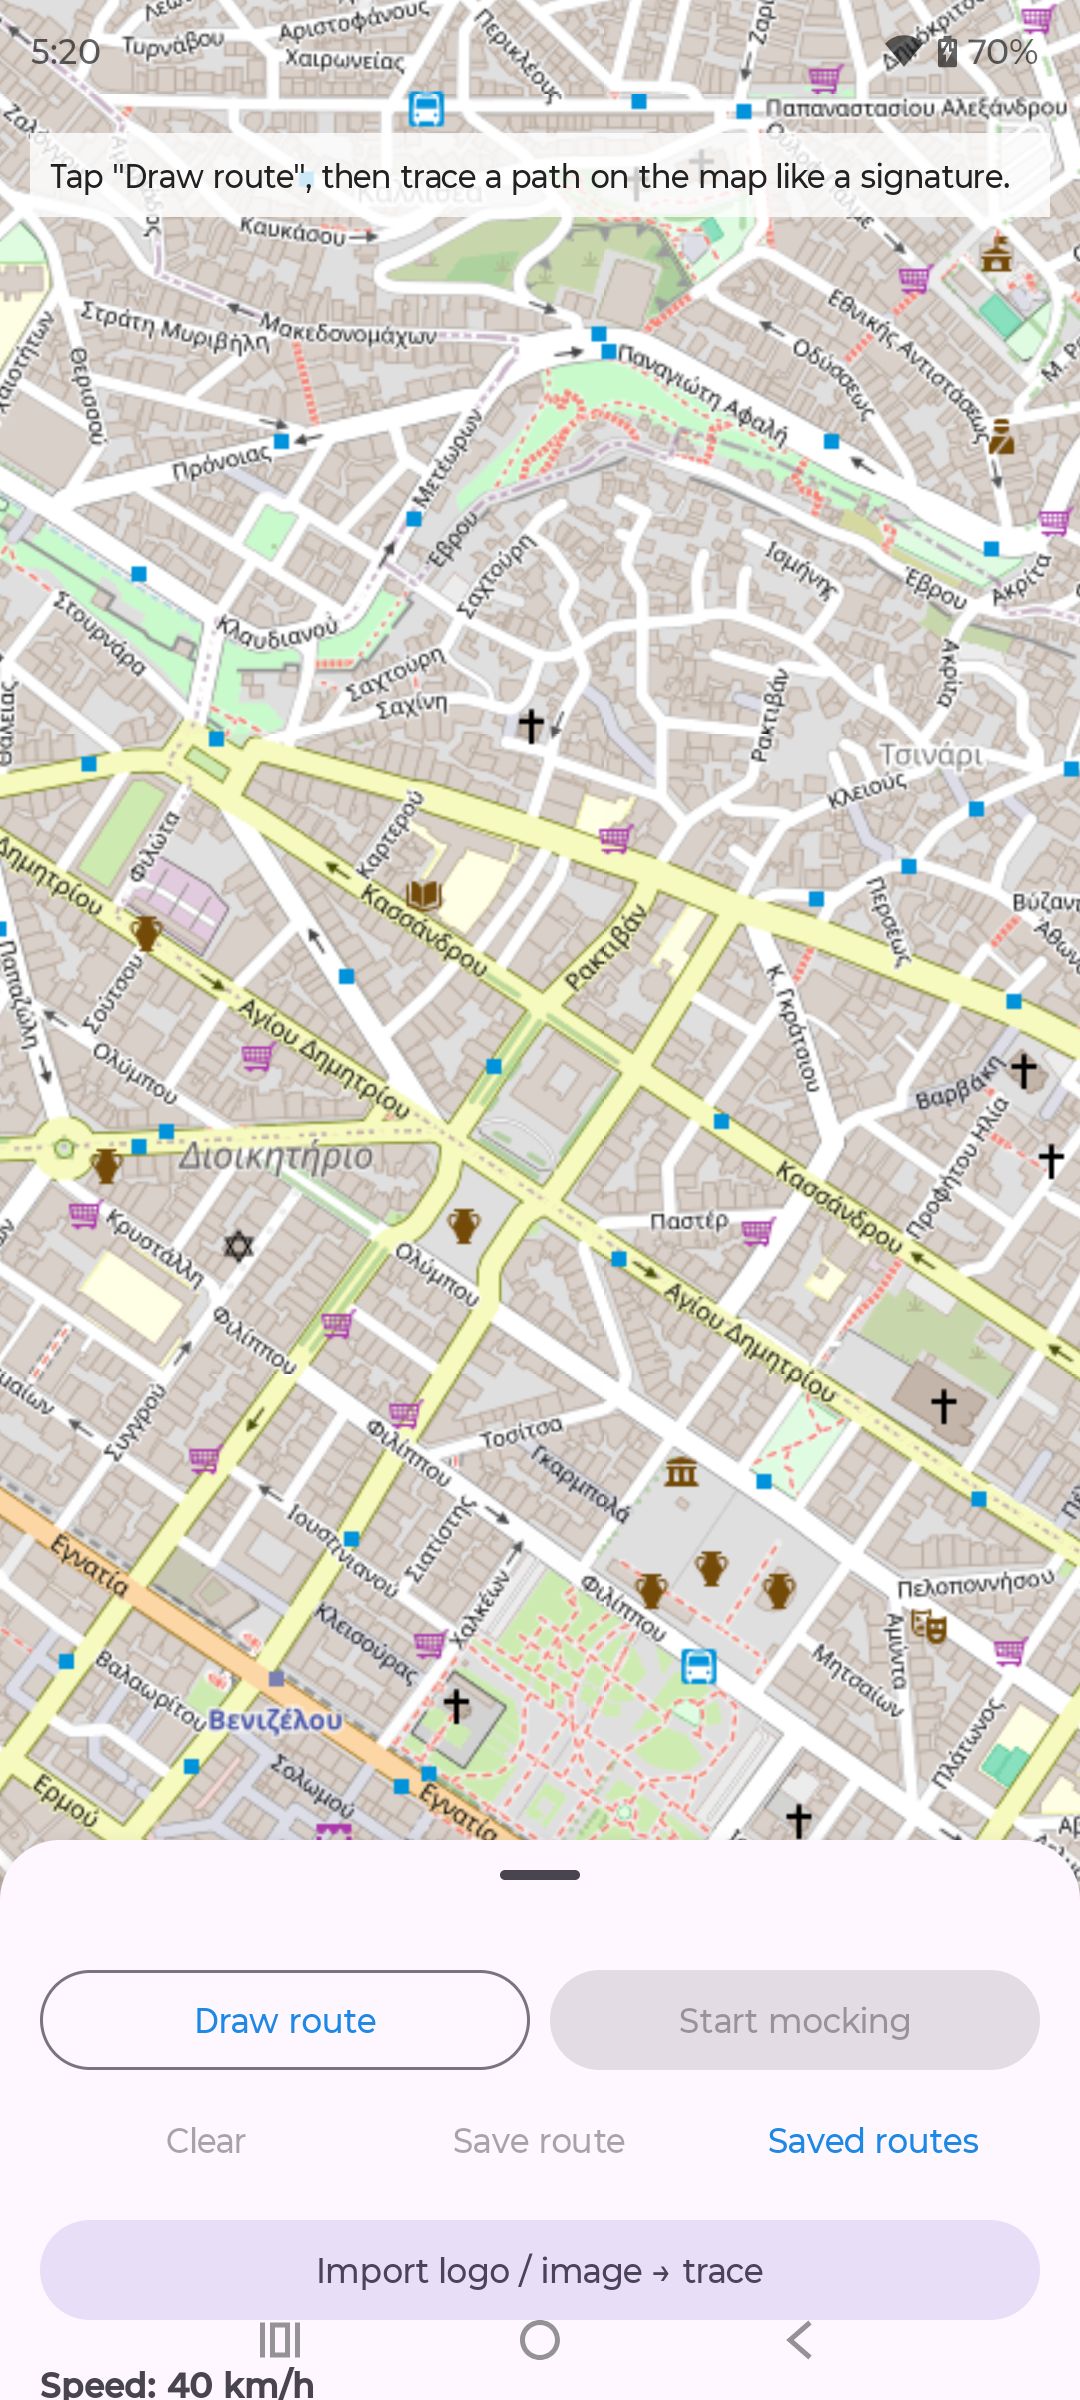
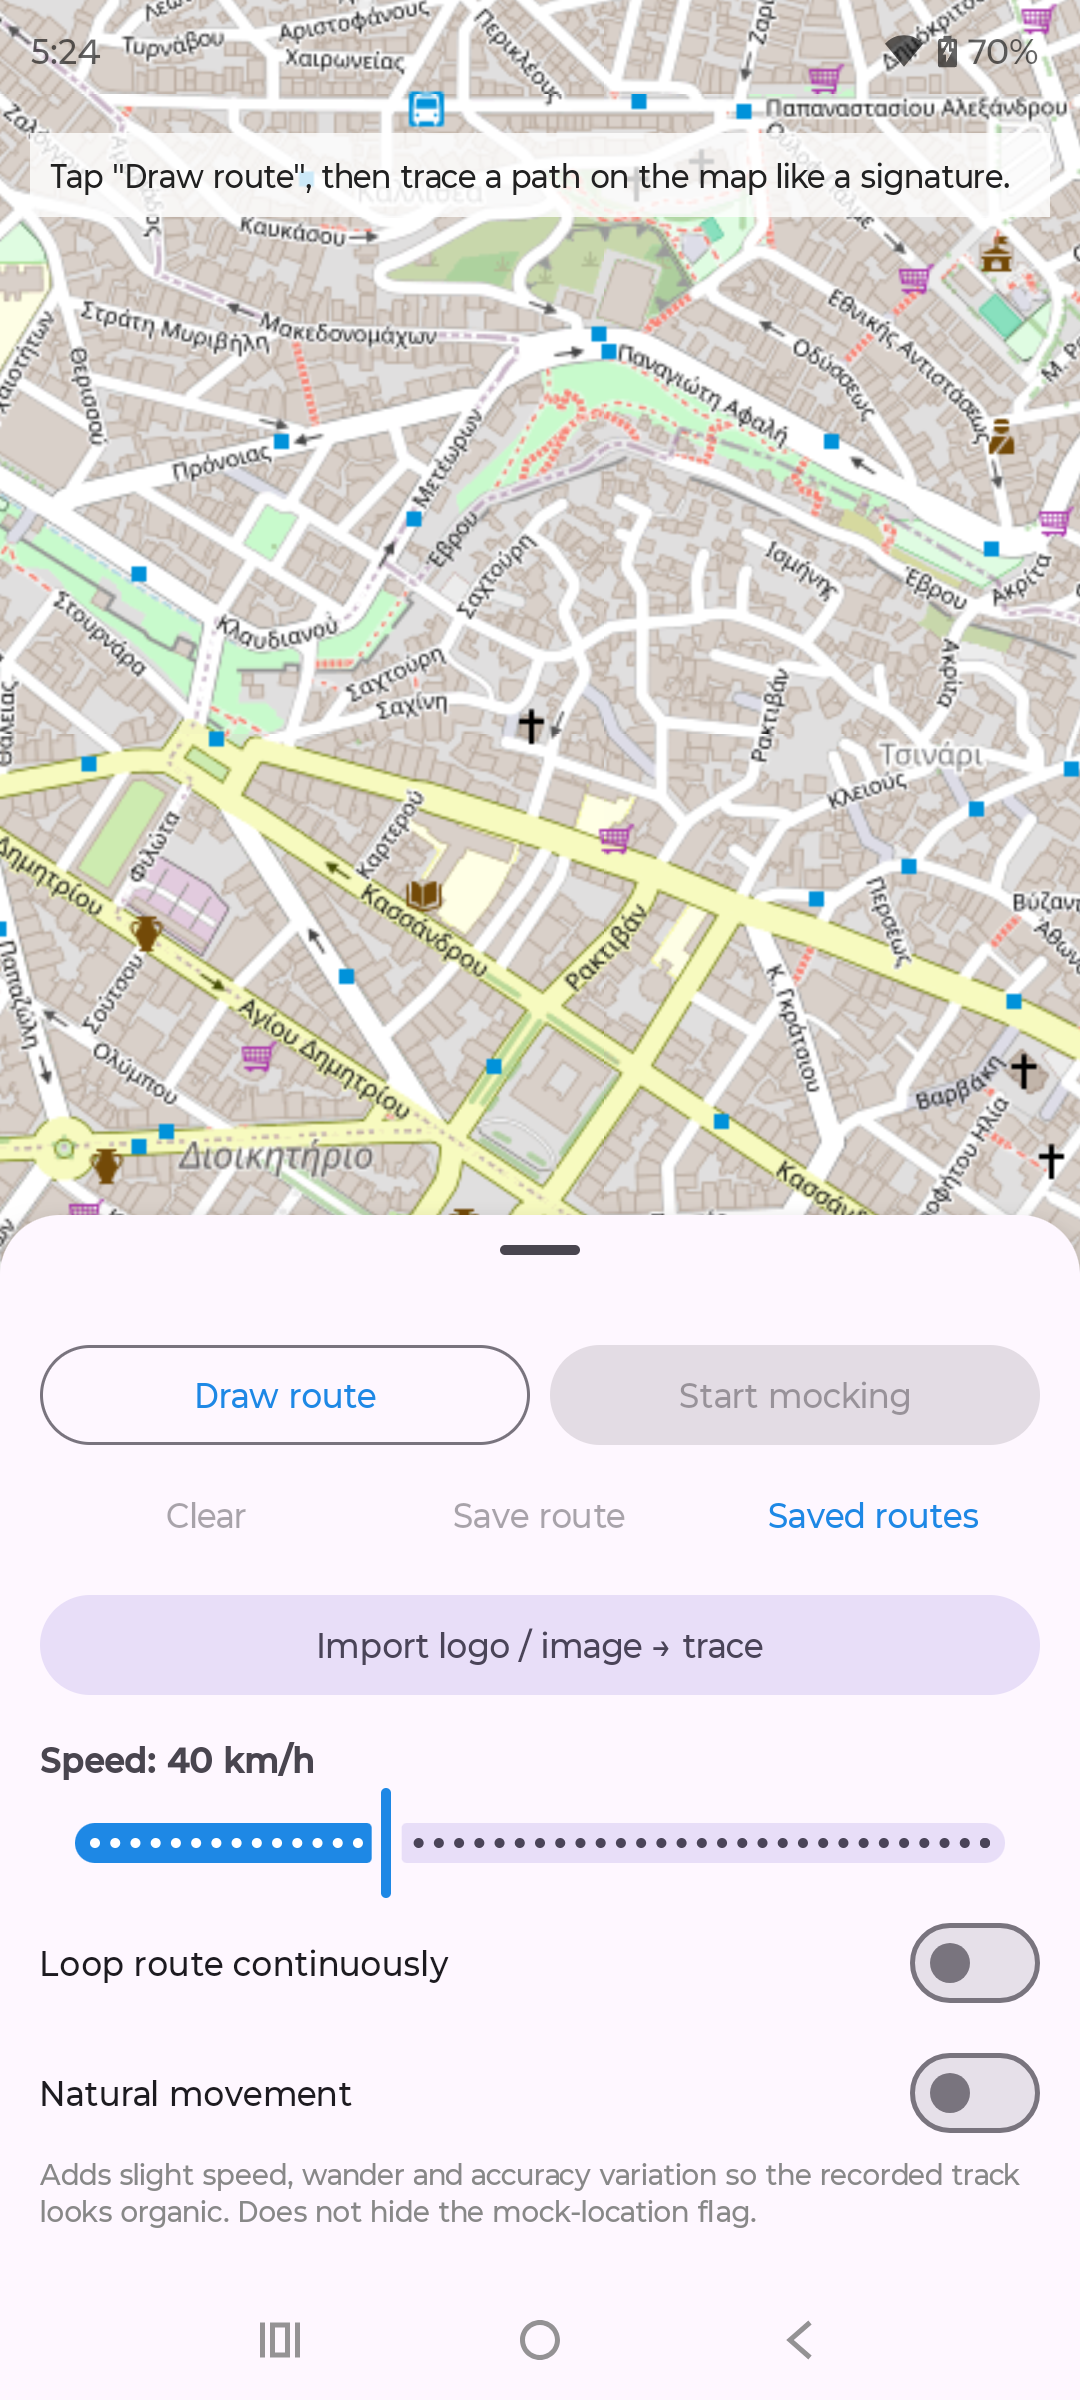
Open the bottom sheet expanded on launch; main screenshot shows full controls

diff --git a/app/src/main/java/gr/orestislef/mockpath/MainActivity.java b/app/src/main/java/gr/orestislef/mockpath/MainActivity.java
@@ -130,6 +130,11 @@ public final class MainActivity extends AppCompatActivity implements LocalBroadc
         registerSavedRoutesLauncher();
         requestRuntimePermissions();
         updateControls(MockLocationService.isRunning());
+
+        // Open with the controls in view; the user can drag it down to free the map.
+        if (savedInstanceState == null) {
+            rootView.post(() -> bottomSheetBehavior.setState(BottomSheetBehavior.STATE_EXPANDED));
+        }
     }
 
     private void applyWindowInsets() {